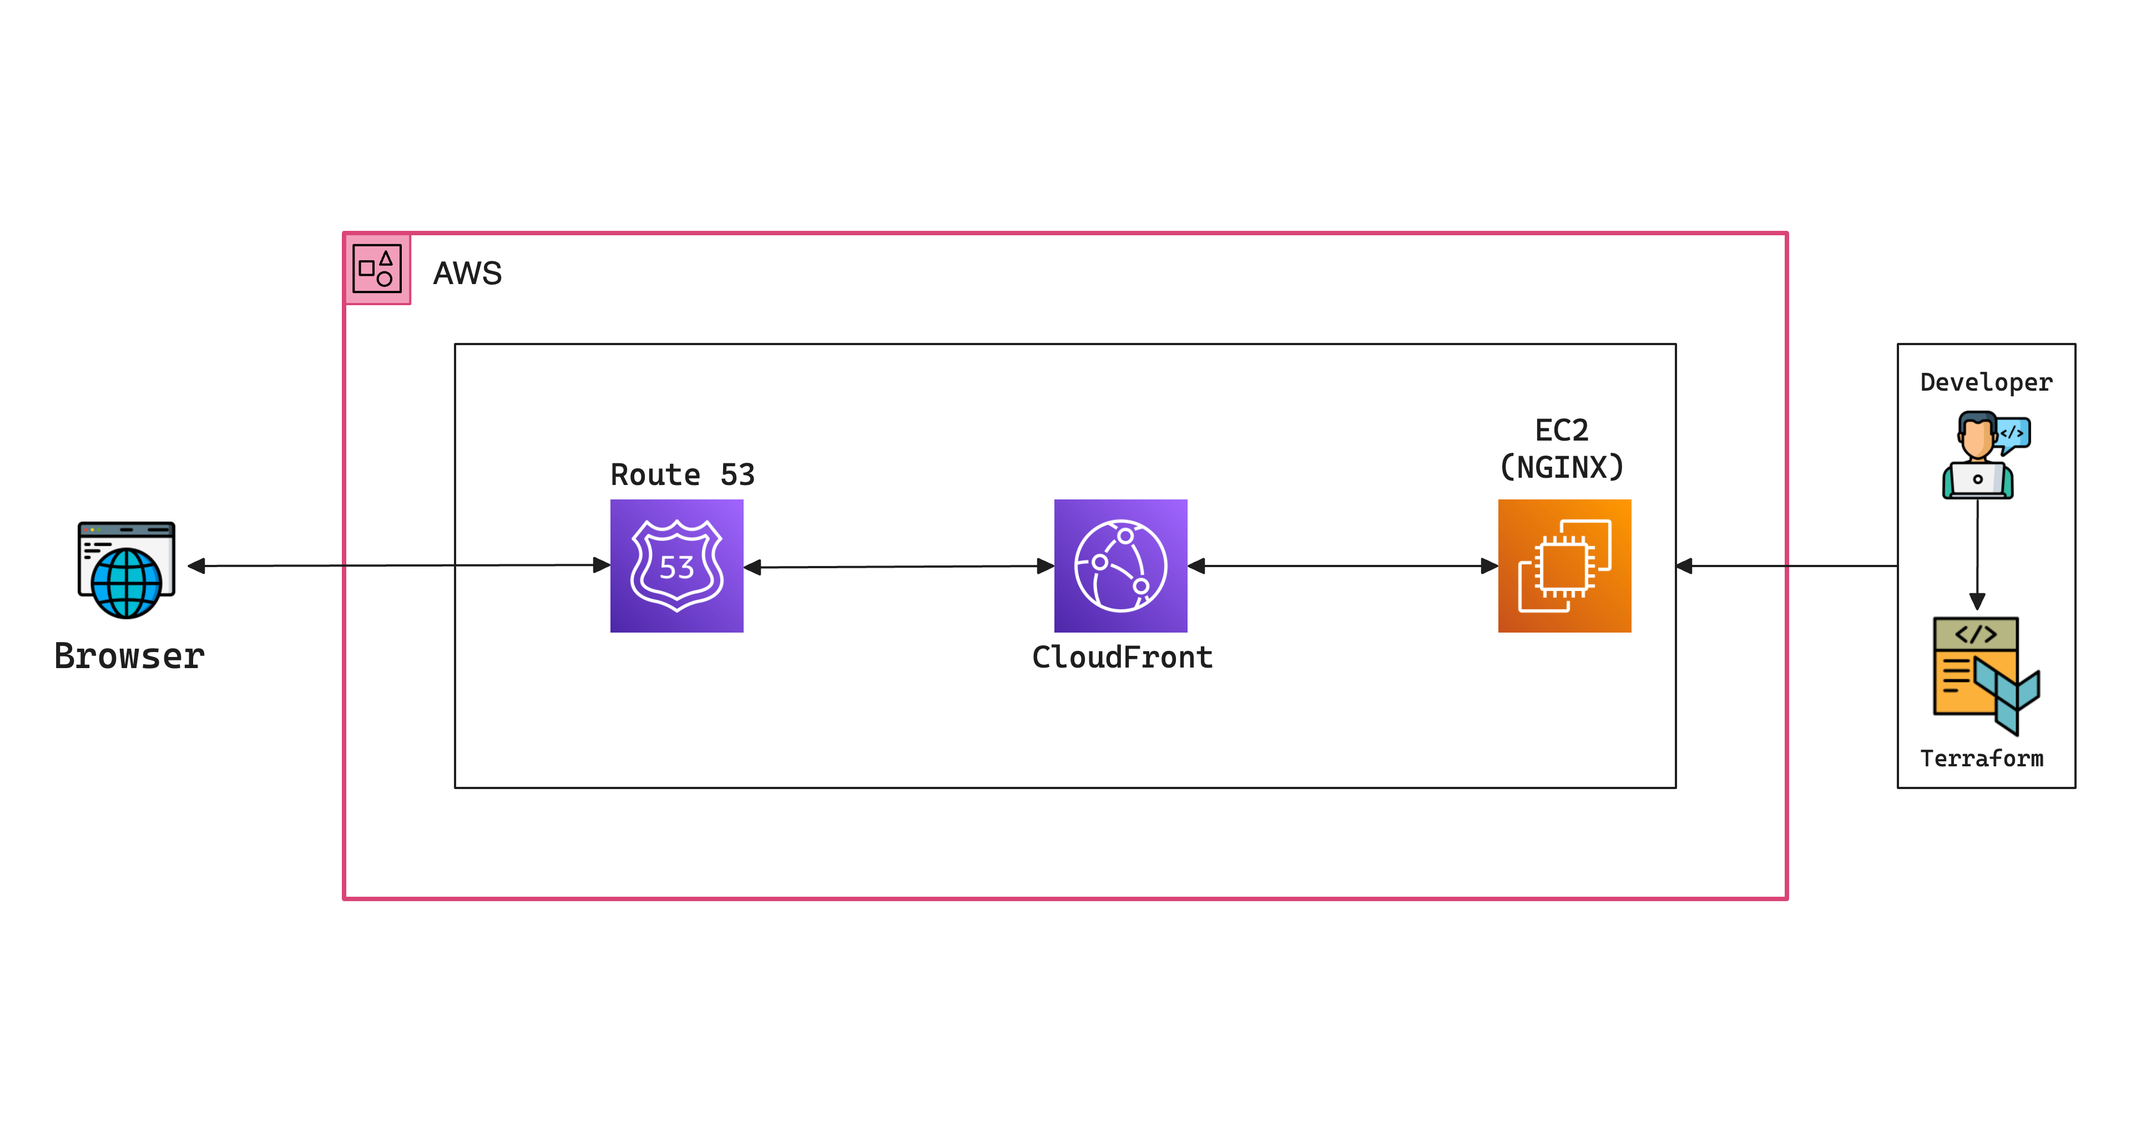
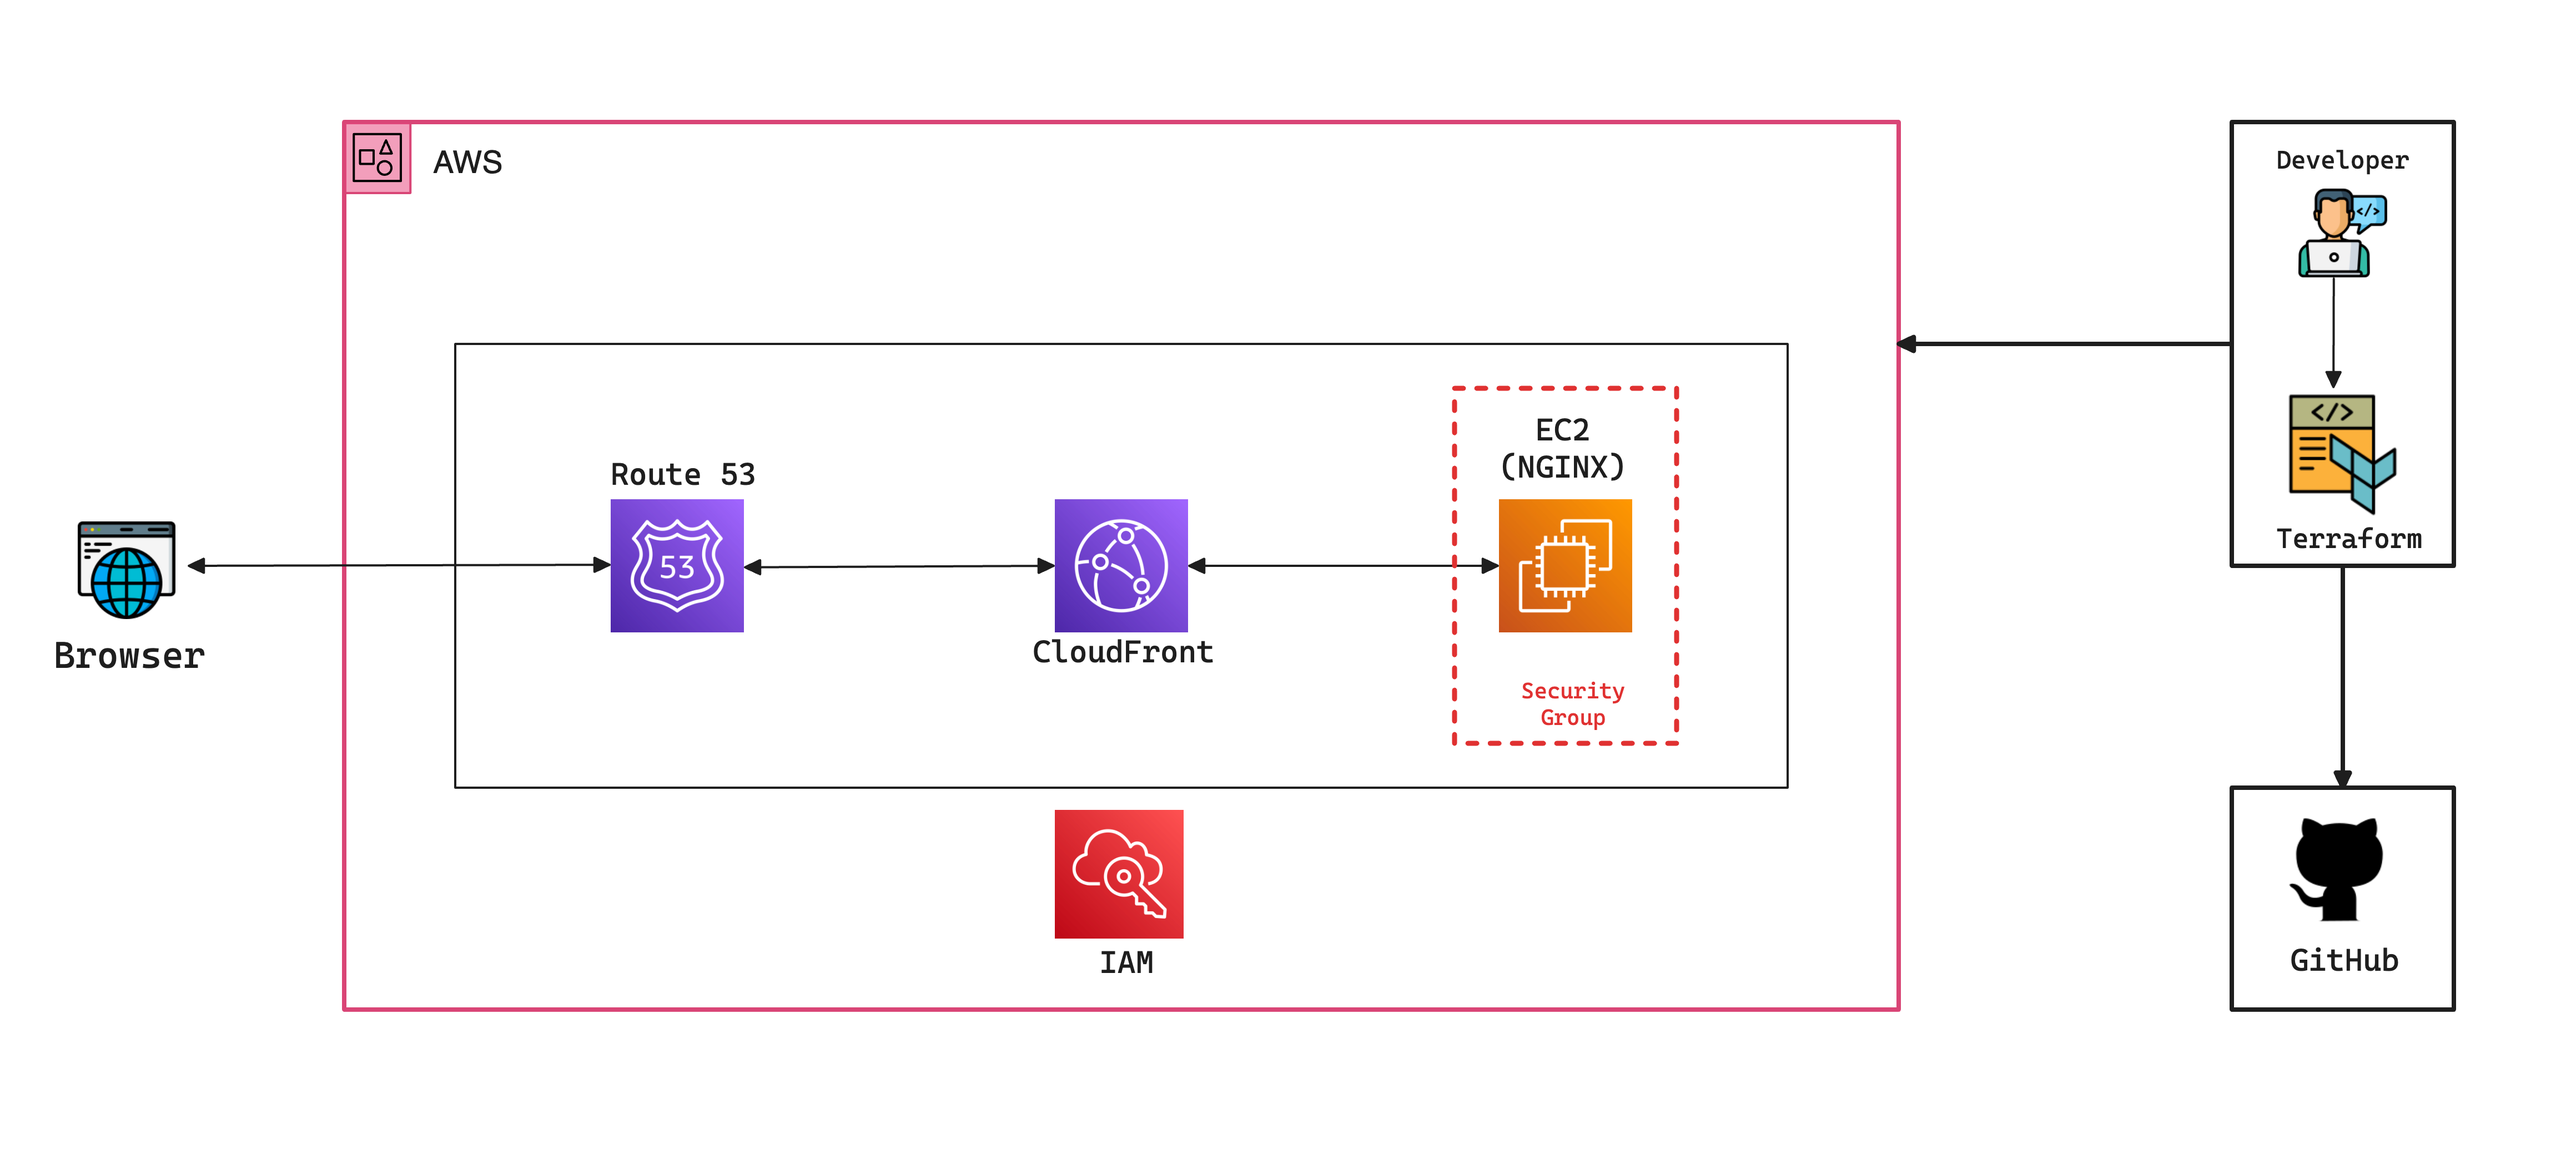
Updating README.md

diff --git a/src/Components/Home/index.js b/src/Components/Home/index.js
@@ -174,7 +174,7 @@ function Home() {
             <img src="/online-resume.png" alt="HTML5" />
           </a>
           <a
-            href="https://github.com/SolemnDave/Project-Blog"
+            href="https://github.com/SolemnDave/Blog-Site/blob/main/README.md"
             target="_blank"
             rel="noreferrer noopener"
           >

diff --git a/README.md b/README.md
@@ -1,205 +1,28 @@
-## Project Blog is a website created using AWS that is dedicated to documenting the courses and books that I engage in.
-
 # Architecture
 
-![Project Blog Architecture](src/assets/images/ProjectBlogArch.png)
+<img src="src/assets/images/ProjectBlogArch.png" alt="User-Provisioning-Script Architecture" width="500"/>
 
 ## Table of Contents
 
 - [Overview](#overview)
-- [Services Used](#services-used)
-- [Step by step](#step-by-step)
-  - [Step 1 - Design and Frontend Development with React](#step-1---design-and-frontend-development-with-react)
-  - [Step 2 - Setup and Configure EC2 Instance for Hosting](#step-2---setup-and-configure-ec2-instance-for-hosting)
-  - [Step 3 - DNS Management and SSL Configuration with Route 53 and ACM](#step-3---dns-management-and-ssl-configuration-with-route-53-and-acm)
-  - [Step 4 - Implement CloudFront for Content Delivery](#step-4---implement-cloudfront-for-content-delivery)
-- [Upcoming Steps](#upcoming-steps)
-
-  - [Step 5 - Streamlined CI/CD with AWS CodeBuild and CodePipeline for Direct Deployment to EC2](#step-5---streamlined-cicd-with-aws-codebuild-and-codepipeline-for-direct-deployment-to-ec2)
+- [Features](#features)
 
 ## Overview
 
-### Creating my first personal blog site in my attempt to practice frontend development and website hosting over a Linux server, distributed using Terraform and a shell script.
+Creating my first personal blog site in my attempt to practice frontend development and website hosting over a Linux server, distributed using Terraform and a shell script.
 
 This project encapsulates the full lifecycle of a modern web application, from design and development to deployment and continuous integration. It's a comprehensive showcase of utilizing a variety of technologies and services, primarily focusing on React for frontend development and AWS services for hosting and deployment.
 
-## Services Used
-
-###
-
-- React (for frontend development)
-- Sass (for styling)
-- React Router (for client-side routing)
-- Context API/Redux (for state management)
-- Amazon EC2 (Elastic Compute Cloud)
-- Elastic IP (for EC2 instance)
-- Nginx (web server)
-- SSH (Secure Shell)
-- AWS Route 53 (for DNS management)
-- AWS Certificate Manager (ACM)
-- Amazon CloudFront (for content delivery)
-- AWS CodeBuild
-- AWS CodePipeline
-- GitHub (for source control)
-- AWS Parameter Store
-
-# Step by step
-
-## Step 1 - Design and Frontend Development with React
-
-### UI/UX Design
-
-- The layout and user experience of the Project Blog were carefully designed to ensure ease of navigation and accessibility. Attention was paid to creating an engaging and user-friendly interface that smoothly guides users through the content.
-
-### React Components
-
-- The website's user interface was constructed using React components. This included developing several key pages:
-  - Home Page: Serving as the landing page, it provides a welcoming introduction and quick access to other sections.
-  - Book Page: Dedicated to showcasing the books engaged in, with detailed information and insights.
-  - Course Page: Focused on the courses undertaken, this page offers an overview and key takeaways from each course.
-  - Project Page: A special page providing in-depth information about the Project Blog itself.
-
-### React Routing
-
-- Client-side navigation was implemented using React Router. This allowed for seamless transitions between different pages and sections of the website without the need for page reloads, offering a smoother user experience.
-
-### Styling with Sass
-
-- For styling, Sass (Syntactically Awesome Style Sheets) was employed. This powerful CSS extension language enabled more complex, maintainable, and readable stylesheets. It enhanced the overall aesthetic appeal and ensured consistency across the website.
-
-### State Management
-
-- The application's state was managed using React's built-in Context API. This approach was chosen for its simplicity and efficiency in handling state within the app, especially given the scale and complexity of the state management needs.
-
-### Outcome
-
-The result of this step was a fully functional, aesthetically pleasing, and user-friendly frontend for the Project Blog website.
-
-## Step 2 - Setup and Configure EC2 Instance for Hosting
-
-### Launch EC2 Instance
-
-- An appropriate EC2 instance type was selected based on the required computing resources and expected traffic.
-  The instance was launched and configured, setting the foundation for the server environment.
-  #### Operating System (OS)
-      - Linux
-  #### Amazon Machine Image (AMI)
-      - Amazon Linux 2023 AMI
-  #### Architecture
-      - 64-bit (x86)
-
-### Allocate and Associate Elastic IP
-
-- An Elastic IP was allocated to provide the EC2 instance with a static public IP address.
-  This static IP ensures a consistent access point for the website, crucial for reliable DNS configuration and accessibility.
-
-### Server Setup with Nginx
-
-- Nginx, a high-performance web server, was installed on the EC2 instance.
-  It was configured to serve the React application's build as static files, optimizing the delivery and performance of the website.
-
-### Security Group Configuration
-
-- The security group for the EC2 instance was carefully configured to enhance security:
-  HTTP (port 80) and HTTPS (port 443) traffic were allowed, enabling web access to the site.
-  SSH (port 22) access was restricted to the current IP address only, adding an extra layer of security against unauthorized access.
-
-### SSH Key Pair Setup
-
-- An SSH key pair was generated using AWS, providing a secure method for logging into the EC2 instance.
-  The private key was downloaded and stored securely, ensuring safe and controlled access to the server.
-
-### Outcome
-
-By the end of this step, a fully configured and secure EC2 instance was ready, serving as the robust backbone for hosting the Project Blog. The implementation of Nginx ensures that the website is accessible through my Elastic IP.
-
-## Step 3 - DNS Management and SSL Configuration with Route 53 and ACM
-
-### DNS Setup with Route 53
-
-- A custom domain name was set up and configured using AWS Route 53, Amazon's scalable and highly available DNS web service.
-- Initially, an A record was created in Route 53, which pointed to the Elastic IP associated with the EC2 instance. This setup linked the domain name directly to the server hosting the website.
-- Later, to leverage the benefits of Amazon CloudFront, the A record was updated to Alias mode. This change redirected the domain name to the CloudFront distribution domain, ensuring efficient content delivery and scalability.
-
-### SSL Configuration with AWS Certificate Manager (ACM)
-
-- To secure the website and protect user data, an SSL certificate was necessary.
-- A free SSL certificate (blog.solemndave.cloud) was requested through AWS Certificate Manager (ACM).
-  The SSL certificate was then configured with the domain to enable HTTPS connections. This ensures that all data transmitted between the web server and browsers remains encrypted and secure from interception or tampering.
-
-### Outcome
-
-At the completion of this step, the Project Blog was not only accessible via a custom domain but also secured with SSL encryption. The integration of Route 53 for DNS management and ACM for SSL configuration played a role in enhancing my website's security and reliability, providing a safe and consistent user experience.
-
-## Step 4 - Implement CloudFront for Content Delivery
-
-### Creating CloudFront Distribution
-
-- A new CloudFront distribution was created, with the EC2 instance (utilizing its public DNS name) specified as the origin server. This setup allowed the distribution to fetch and cache content from the EC2-hosted website.
-  The protocol policy was initially set to 'Match Viewer', allowing CloudFront to serve content over the same protocol (HTTP or HTTPS) as the viewer's request. However, due to connectivity issues encountered, it was later adjusted to 'HTTP only', simplifying the setup and resolving these issues.
-
-### SSL Configuration with CloudFront
-
-- The CloudFront distribution was configured to use the SSL certificate obtained from AWS Certificate Manager (ACM). This ensured that the content delivery was secured with HTTPS.
-  SSL termination occurred at CloudFront edge locations, which offloaded the encryption and decryption processes from the EC2 instance, improving efficiency.
-
-### Setting CNAMEs in CloudFront
-
--Custom domain names, such as blog.solemndave.cloud, were included in the CloudFront distribution settings. This allowed users to access the website through these friendly URLs, enhancing brand visibility and user experience.
-
-### Cache Behavior Configuration
-
-- The cache behavior for the CloudFront distribution was carefully configured to align with the specific needs of the application. This involved setting parameters like TTL (Time To Live), query string forwarding, and cache invalidation policies to optimize content delivery and performance.
-
-### Updating DNS Records in Route 53
-
-- The DNS records in Route 53 were updated to point to the CloudFront distribution. By doing so, traffic intended for the website was now routed through CloudFront, allowing for efficient content distribution and the benefit of HTTPS encryption.
-
-### Outcome
-
-Implementing Amazon CloudFront as the CDN for Project Blog significantly improved the site’s loading times and overall performance. The use of SSL encryption through CloudFront ensured secure content delivery, while the DNS updates made the site easily accessible through a custom domain. These enhancements contributed to a superior user experience and bolstered the website's reliability and scalability.
-
-# Upcoming Steps
-
-## Step 5 - Streamlined CI/CD with AWS CodeBuild and CodePipeline for Direct Deployment to EC2
-
-### Source Control Integration with GitHub
-
-- The React project was hosted in a GitHub repository, forming the basis for version control and source code management.
-  This integration was essential for triggering the CI/CD pipeline upon code commits.
-
-### Setting Up AWS CodeBuild
-
-- AWS CodeBuild was configured to connect with the GitHub repository.
-  A custom build environment was chosen and a build project was created.
-  The build process was defined to focus on building the React application effectively.
-
-### Configuring the buildspec.yml File
-
-- A buildspec.yml file was created and added to the repository.
-  This file specified the build commands and included steps to securely retrieve necessary credentials, such as SSH keys, from the AWS Parameter Store.
-
-### Integrating with AWS CodePipeline
-
-- AWS CodePipeline was set up to manage the entire CI/CD workflow.
-  It was connected to both CodeBuild and the GitHub repository to ensure seamless integration.
-  The pipeline was configured to automatically trigger builds in CodeBuild upon new code commits to the repository.
-
-### Automating Deployment to the EC2 Instance
-
-- A deployment stage was added to the CodePipeline configuration.
-  This stage used AWS CodeBuild to execute deployment commands specified in the buildspec.yml file, automating the deployment of build artifacts directly to the EC2 instance.
-
-### Utilizing AWS Parameter Store for Secure Credential Management
-
-- Sensitive information, such as SSH keys, was securely stored in the AWS Parameter Store.
-  These credentials were then retrieved securely during the build and deployment processes, maintaining the integrity and security of the deployment pipeline.
-
-### Security and Access Control
-
-- Proper IAM roles were set up for both CodeBuild and CodePipeline, ensuring that each component of the CI/CD pipeline had the necessary permissions to function correctly.
-  The security of SSH access to the EC2 instance was maintained throughout the process.
-
-### Outcome
-
-By implementing a CI/CD pipeline with AWS CodeBuild and CodePipeline, the deployment process for Project Blog is optimized. The pipeline ensures that the latest version of the application is automatically built, tested, and deployed to the EC2 instance, reflecting changes in real-time and minimizing manual intervention.
+## Features
+
+- **Automated Infrastructure Deployment:** Use Terraform to automatically deploy and configure AWS resources, ensuring a consistent and repeatable infrastructure setup.
+- **Efficient Resource Management:** Provision and manage EC2 instances, security groups, and other AWS resources with Terraform, reducing manual configuration efforts.
+- **Scalable Frontend Hosting:** Deploy a React-based frontend on an EC2 instance, leveraging Nginx for efficient web server management and serving static content.
+- **Domain Management:** Utilize Route 53 for domain name management, seamlessly integrating with CloudFront for content distribution.
+- **Secure Connections:** Implement HTTPS using AWS ACM for SSL/TLS certificates, ensuring secure communication between users and the web application.
+- **Content Distribution:** Leverage CloudFront as a Content Delivery Network (CDN) to deliver web content with low latency and high transfer speeds.
+- **Dynamic Configuration:** Use shell scripts to handle dynamic configuration tasks, such as setting up Nginx and managing file permissions, enhancing deployment flexibility.
+- **Version Control:** Manage infrastructure as code with Git, enabling version tracking, collaboration, and efficient rollbacks.
+- **Cross-Platform Compatibility:** Ensure the solution works across different environments and operating systems, providing a robust and versatile deployment strategy.
+- **Enhanced Security:** Secure SSH access to EC2 instances using IAM roles and policies, and control inbound traffic with finely-tuned security group rules.
+- **Enhanced Security:** Secure SSH access to EC2 instances using IAM roles and policies, and control inbound traffic with finely-tuned security group rules.
